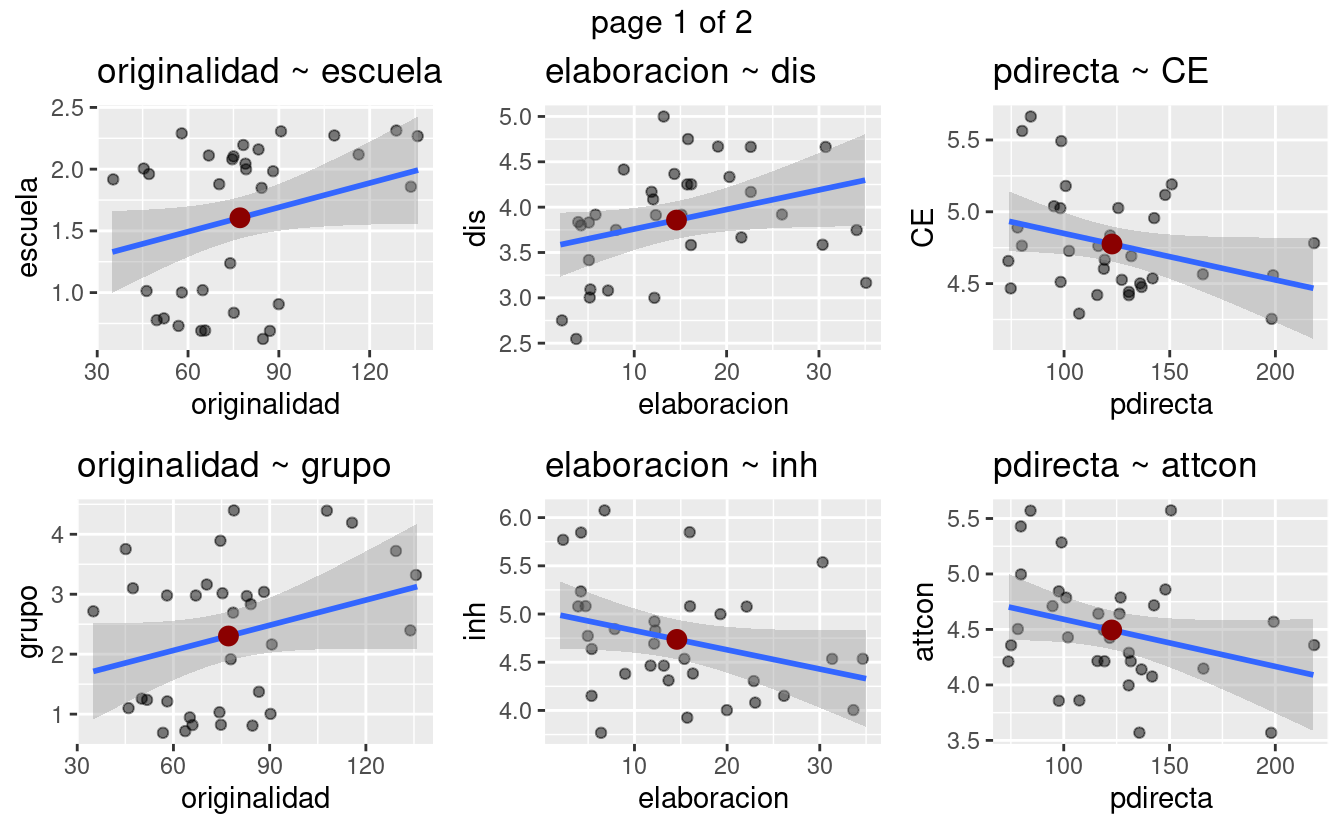
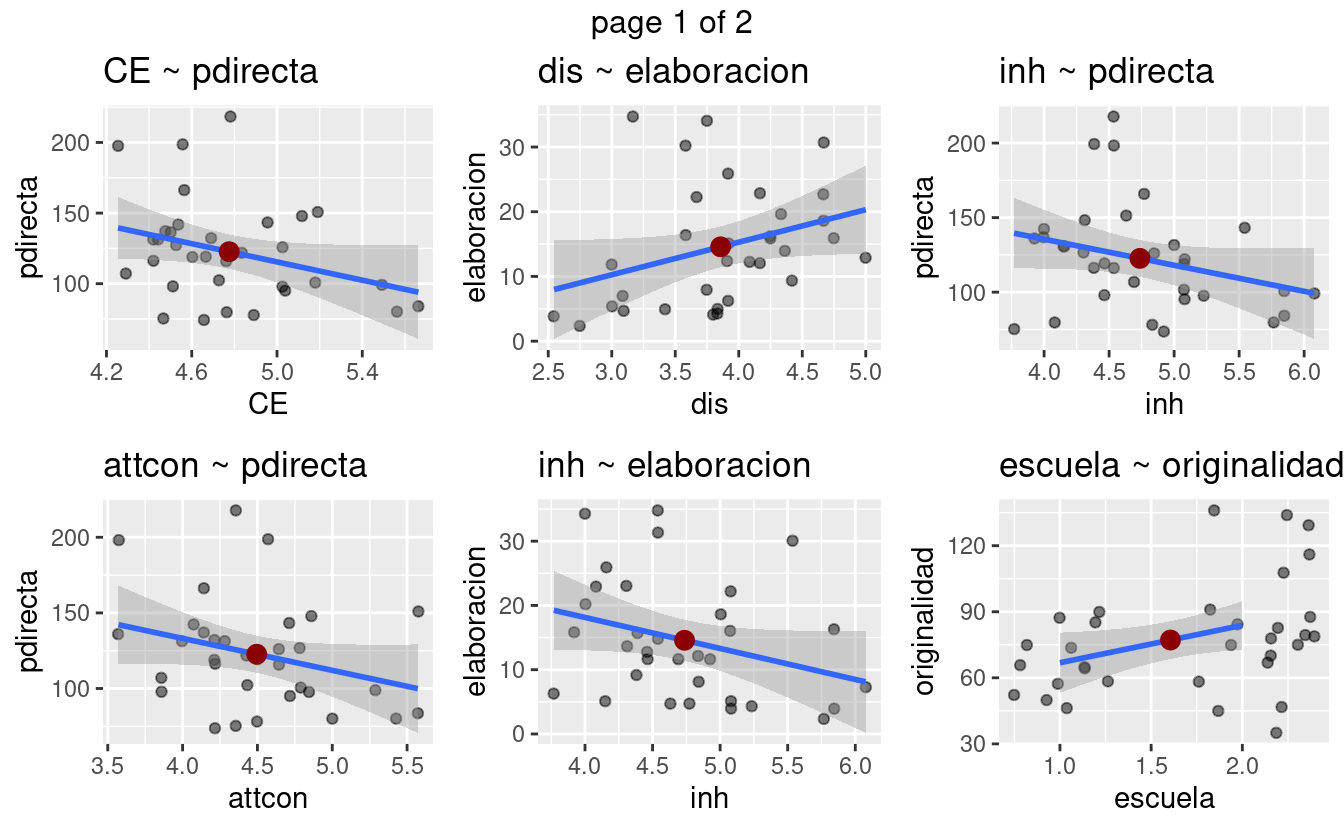
site update

diff --git a/docs/_site/2022/09/06/totales-torrance/index.html b/docs/_site/2022/09/06/totales-torrance/index.html
@@ -76,44 +76,31 @@
     <div class="article-content">
       <h1 id="totals-in-torrance">TOTALS IN TORRANCE</h1>
 <div class="highlight">
-<pre class='chroma'><code class='language-r' data-lang='r'><span><span class='c'>#&gt; [1] "escuela originalidad"</span></span>
-<span><span class='c'>#&gt; [1] "grupo originalidad"</span></span>
-<span><span class='c'>#&gt; [1] "dis elaboracion"</span></span>
-<span><span class='c'>#&gt; [1] "inh elaboracion"</span></span>
-<span><span class='c'>#&gt; [1] "CE pdirecta"</span></span>
-<span><span class='c'>#&gt; [1] "attcon pdirecta"</span></span>
-<span><span class='c'>#&gt; [1] "inh pdirecta"</span></span>
-<span><span class='c'>#&gt;            originalidad fluidez elaboracion flexibilidad   pdirecta</span></span>
-<span><span class='c'>#&gt; CE                   NA      NA          NA           NA -0.3234595</span></span>
-<span><span class='c'>#&gt; AN                   NA      NA          NA           NA         NA</span></span>
-<span><span class='c'>#&gt; SU                   NA      NA          NA           NA         NA</span></span>
-<span><span class='c'>#&gt; act                  NA      NA          NA           NA         NA</span></span>
-<span><span class='c'>#&gt; fru                  NA      NA          NA           NA         NA</span></span>
-<span><span class='c'>#&gt; app                  NA      NA          NA           NA         NA</span></span>
-<span><span class='c'>#&gt; attfoc               NA      NA          NA           NA         NA</span></span>
-<span><span class='c'>#&gt; attshi               NA      NA          NA           NA         NA</span></span>
-<span><span class='c'>#&gt; attcon               NA      NA          NA           NA -0.2997329</span></span>
-<span><span class='c'>#&gt; dis                  NA      NA   0.3292718           NA         NA</span></span>
-<span><span class='c'>#&gt; sth                  NA      NA          NA           NA         NA</span></span>
-<span><span class='c'>#&gt; fea                  NA      NA          NA           NA         NA</span></span>
-<span><span class='c'>#&gt; hip                  NA      NA          NA           NA         NA</span></span>
-<span><span class='c'>#&gt; imp                  NA      NA          NA           NA         NA</span></span>
-<span><span class='c'>#&gt; inh                  NA      NA  -0.3101759           NA -0.2929208</span></span>
-<span><span class='c'>#&gt; lip                  NA      NA          NA           NA         NA</span></span>
-<span><span class='c'>#&gt; per                  NA      NA          NA           NA         NA</span></span>
-<span><span class='c'>#&gt; sad                  NA      NA          NA           NA         NA</span></span>
-<span><span class='c'>#&gt; shy                  NA      NA          NA           NA         NA</span></span>
-<span><span class='c'>#&gt; smi                  NA      NA          NA           NA         NA</span></span>
-<span><span class='c'>#&gt; escuela       0.3342620      NA          NA           NA         NA</span></span>
-<span><span class='c'>#&gt; grupo         0.2981489      NA          NA           NA         NA</span></span>
-<span><span class='c'>#&gt; edad                 NA      NA          NA           NA         NA</span></span>
-<span><span class='c'>#&gt; sexo                 NA      NA          NA           NA         NA</span></span>
-<span><span class='c'>#&gt; percentil            NA      NA          NA           NA         NA</span></span>
-<span><span class='c'>#&gt; rango                NA      NA          NA           NA         NA</span></span>
-<span><span class='c'>#&gt; columna_a            NA      NA          NA           NA         NA</span></span>
-<span><span class='c'>#&gt; columna_ab           NA      NA          NA           NA         NA</span></span>
-<span><span class='c'>#&gt; columna_b            NA      NA          NA           NA         NA</span></span>
-<span><span class='c'>#&gt; puntaje              NA      NA          NA           NA         NA</span></span></code></pre>
+<pre class='chroma'><code class='language-r' data-lang='r'><span><span class='c'>#&gt; [1] "pdirecta CE"</span></span>
+<span><span class='c'>#&gt; [1] "pdirecta attcon"</span></span>
+<span><span class='c'>#&gt; [1] "elaboracion dis"</span></span>
+<span><span class='c'>#&gt; [1] "elaboracion inh"</span></span>
+<span><span class='c'>#&gt; [1] "pdirecta inh"</span></span>
+<span><span class='c'>#&gt; [1] "originalidad escuela"</span></span>
+<span><span class='c'>#&gt; [1] "originalidad grupo"</span></span>
+<span><span class='c'>#&gt;                      CE AN SU act fru app attfoc attshi     attcon       dis</span></span>
+<span><span class='c'>#&gt; originalidad         NA NA NA  NA  NA  NA     NA     NA         NA        NA</span></span>
+<span><span class='c'>#&gt; fluidez              NA NA NA  NA  NA  NA     NA     NA         NA        NA</span></span>
+<span><span class='c'>#&gt; elaboracion          NA NA NA  NA  NA  NA     NA     NA         NA 0.3292718</span></span>
+<span><span class='c'>#&gt; flexibilidad         NA NA NA  NA  NA  NA     NA     NA         NA        NA</span></span>
+<span><span class='c'>#&gt; pdirecta     -0.3234595 NA NA  NA  NA  NA     NA     NA -0.2997329        NA</span></span>
+<span><span class='c'>#&gt;              sth fea hip imp        inh lip per sad shy smi  escuela     grupo</span></span>
+<span><span class='c'>#&gt; originalidad  NA  NA  NA  NA         NA  NA  NA  NA  NA  NA 0.334262 0.2981489</span></span>
+<span><span class='c'>#&gt; fluidez       NA  NA  NA  NA         NA  NA  NA  NA  NA  NA       NA        NA</span></span>
+<span><span class='c'>#&gt; elaboracion   NA  NA  NA  NA -0.3101759  NA  NA  NA  NA  NA       NA        NA</span></span>
+<span><span class='c'>#&gt; flexibilidad  NA  NA  NA  NA         NA  NA  NA  NA  NA  NA       NA        NA</span></span>
+<span><span class='c'>#&gt; pdirecta      NA  NA  NA  NA -0.2929208  NA  NA  NA  NA  NA       NA        NA</span></span>
+<span><span class='c'>#&gt;              edad sexo percentil rango columna_a columna_ab columna_b puntaje</span></span>
+<span><span class='c'>#&gt; originalidad   NA   NA        NA    NA        NA         NA        NA      NA</span></span>
+<span><span class='c'>#&gt; fluidez        NA   NA        NA    NA        NA         NA        NA      NA</span></span>
+<span><span class='c'>#&gt; elaboracion    NA   NA        NA    NA        NA         NA        NA      NA</span></span>
+<span><span class='c'>#&gt; flexibilidad   NA   NA        NA    NA        NA         NA        NA      NA</span></span>
+<span><span class='c'>#&gt; pdirecta       NA   NA        NA    NA        NA         NA        NA      NA</span></span></code></pre>
 <p><img src="figs/unnamed-chunk-2-1.png" width="700px" style="display: block; margin: auto;" /><img src="figs/unnamed-chunk-2-2.png" width="700px" style="display: block; margin: auto;" /><img src="figs/unnamed-chunk-2-3.png" width="700px" style="display: block; margin: auto;" /></p>
 </div>
 <h1 id="correlation-matrix">Correlation Matrix</h1>
